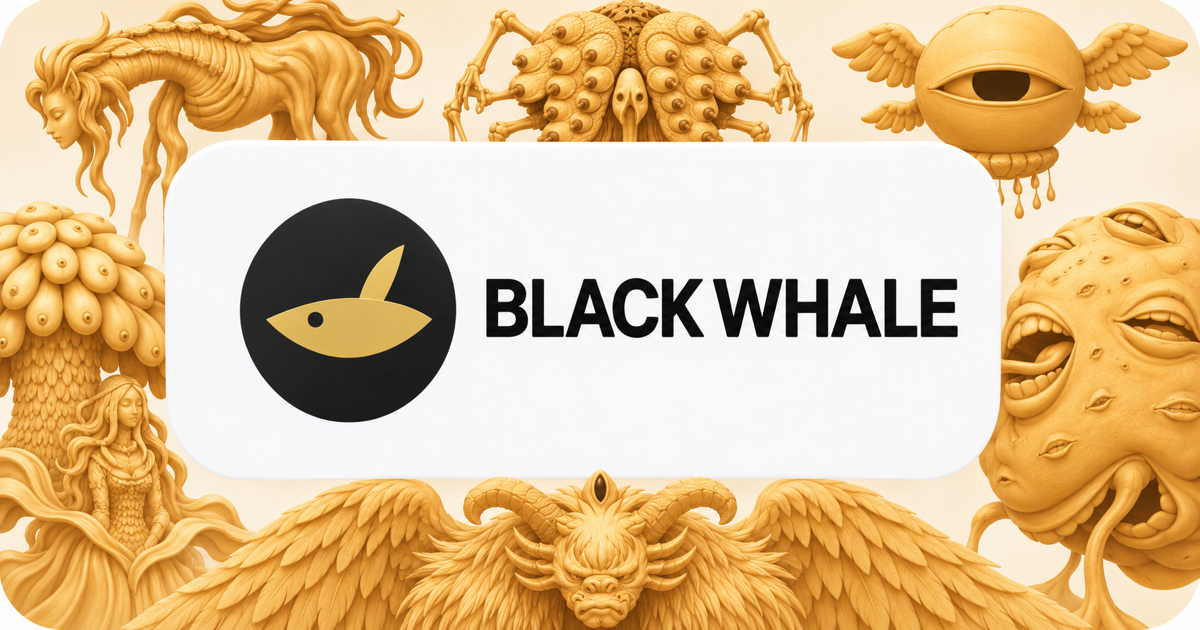
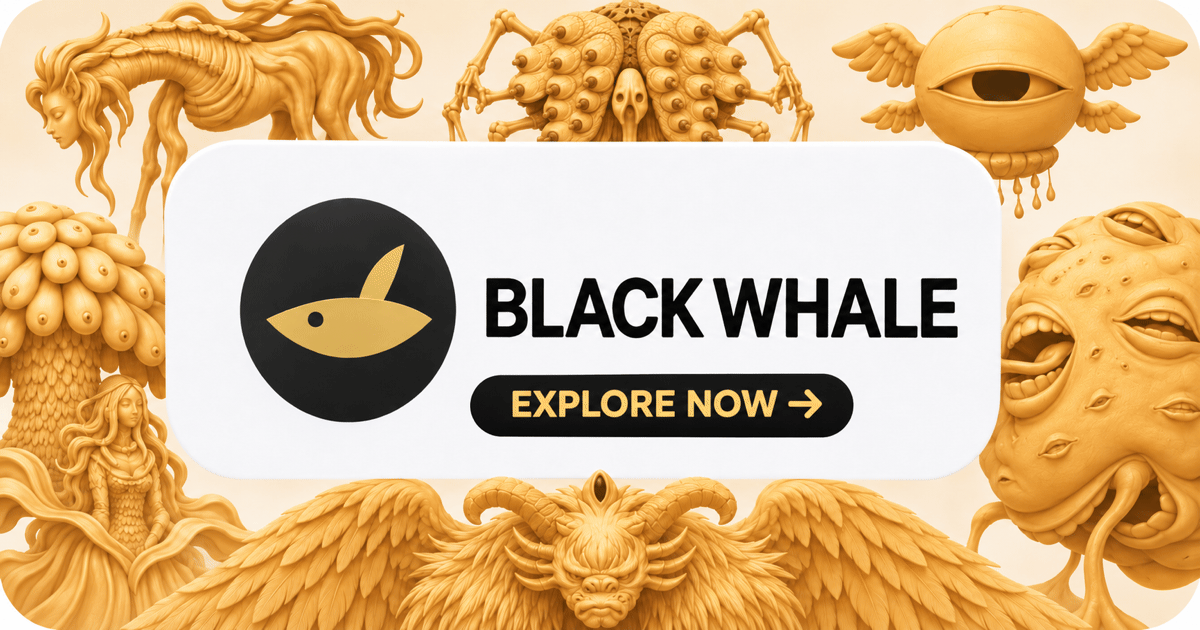
fix(web): improve Open Graph preview

diff --git a/apps/web/src/lib/i18n/messages/fr.ts b/apps/web/src/lib/i18n/messages/fr.ts
@@ -2897,7 +2897,7 @@ export const fr: Messages = {
 
   home: {
     seoDescription:
-      'Parcourez les passagers, les ponts, les savoirs et les systèmes de Nen de la guerre de succession du Black Whale — une archive interactive de Hunter × Hunter.',
+      'Explorez les passagers, ponts, savoirs et pouvoirs de Nen du Black Whale dans une archive interactive de Hunter × Hunter.',
     eyebrow: 'Expédition royale de Kakin · Voyage 001',
     titleLead: 'Montez à bord du',
     titleBrand: 'Black Whale',

diff --git a/apps/web/src/lib/i18n/messages/en.ts b/apps/web/src/lib/i18n/messages/en.ts
@@ -3097,7 +3097,7 @@ export const en = {
 
   home: {
     seoDescription:
-      'Navigate the people, decks, knowledge and Nen systems of the Black Whale Succession War — an interactive Hunter × Hunter archive.',
+      'Explore the people, decks, knowledge and Nen of the Black Whale Succession War in an interactive Hunter × Hunter archive.',
     eyebrow: 'Kakin Royal Expedition · Voyage 001',
     titleLead: 'Enter the',
     titleBrand: 'Black Whale',

diff --git a/apps/web/src/lib/seo/config.ts b/apps/web/src/lib/seo/config.ts
@@ -1,6 +1,6 @@
 export const SITE_URL = 'https://exploreblackwhale.com'
 export const SITE_NAME = 'Black Whale'
-export const DEFAULT_IMAGE = `${SITE_URL}/og-default.png?v=3`
+export const DEFAULT_IMAGE = `${SITE_URL}/og-default.png?v=4`
 
 export const TWITTER_CARD = 'summary_large_image'
 
